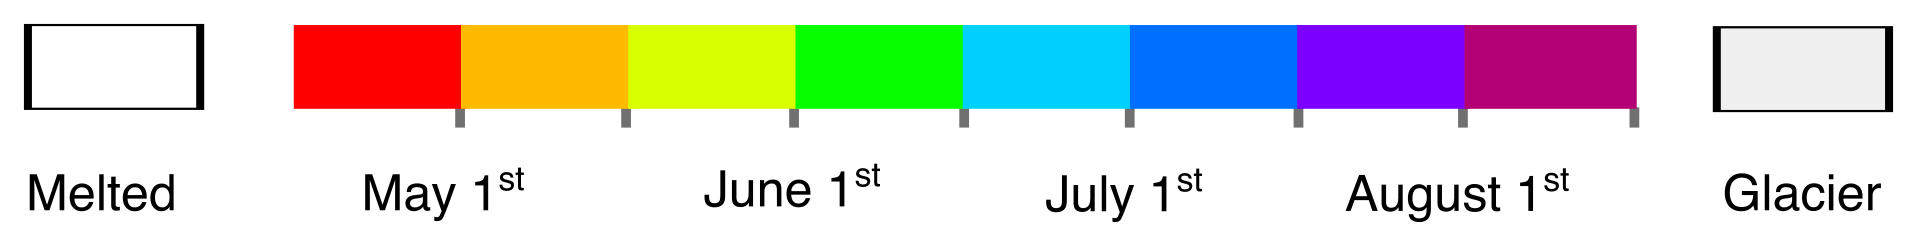
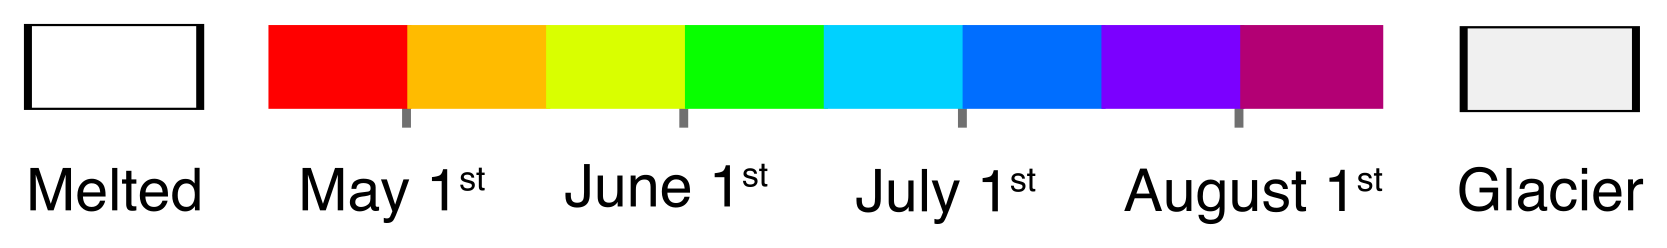
Another legend tweak.

diff --git a/source/snow_forecasts.html b/source/snow_forecasts.html
@@ -17,8 +17,8 @@
 .legend span {
   display:block;
   float:left;
-  height:15px;
-  width:25%;
+  height:35px;
+  width:20%;
   text-align:center;
   font-size:9px;
   color:#808080;
